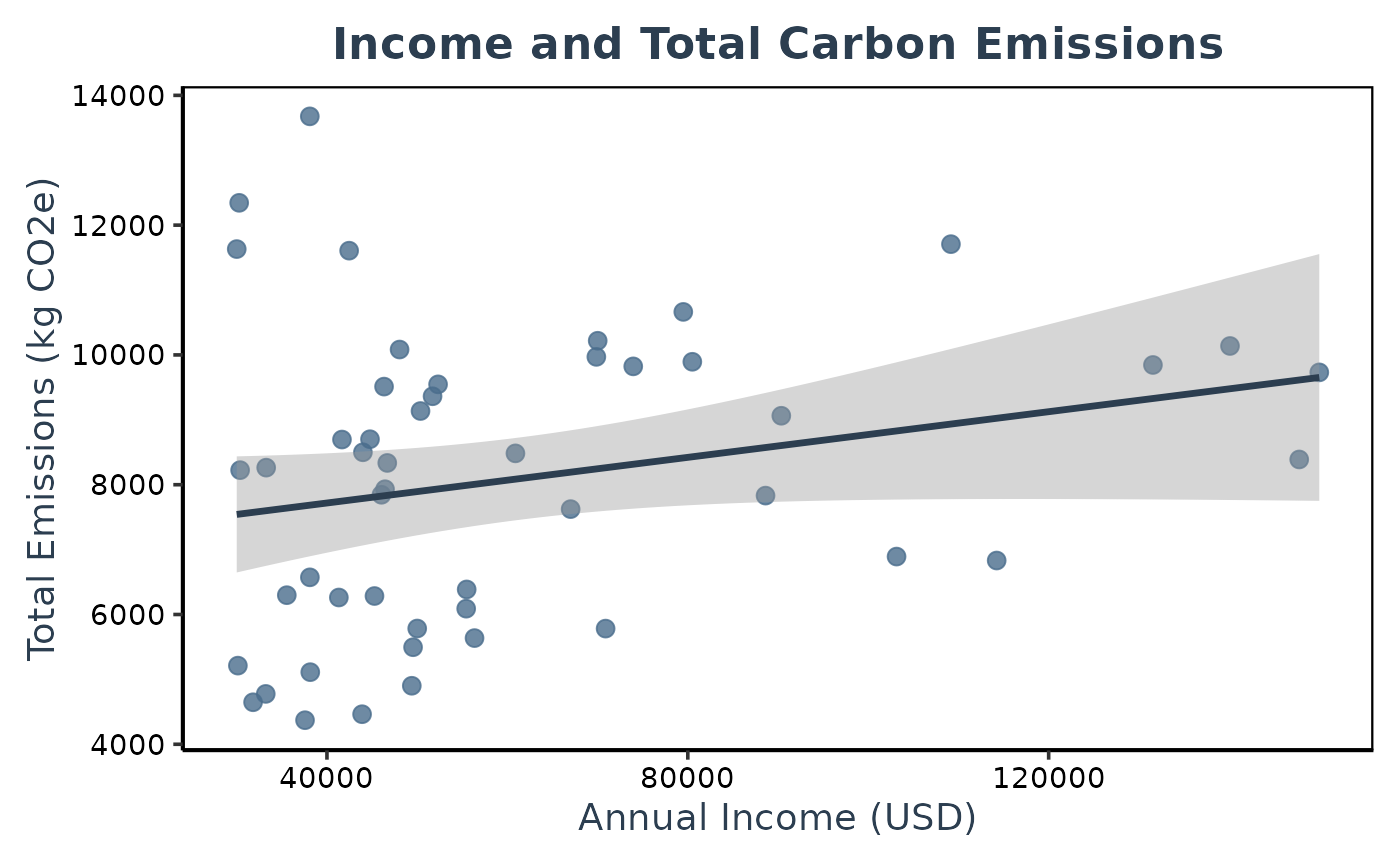
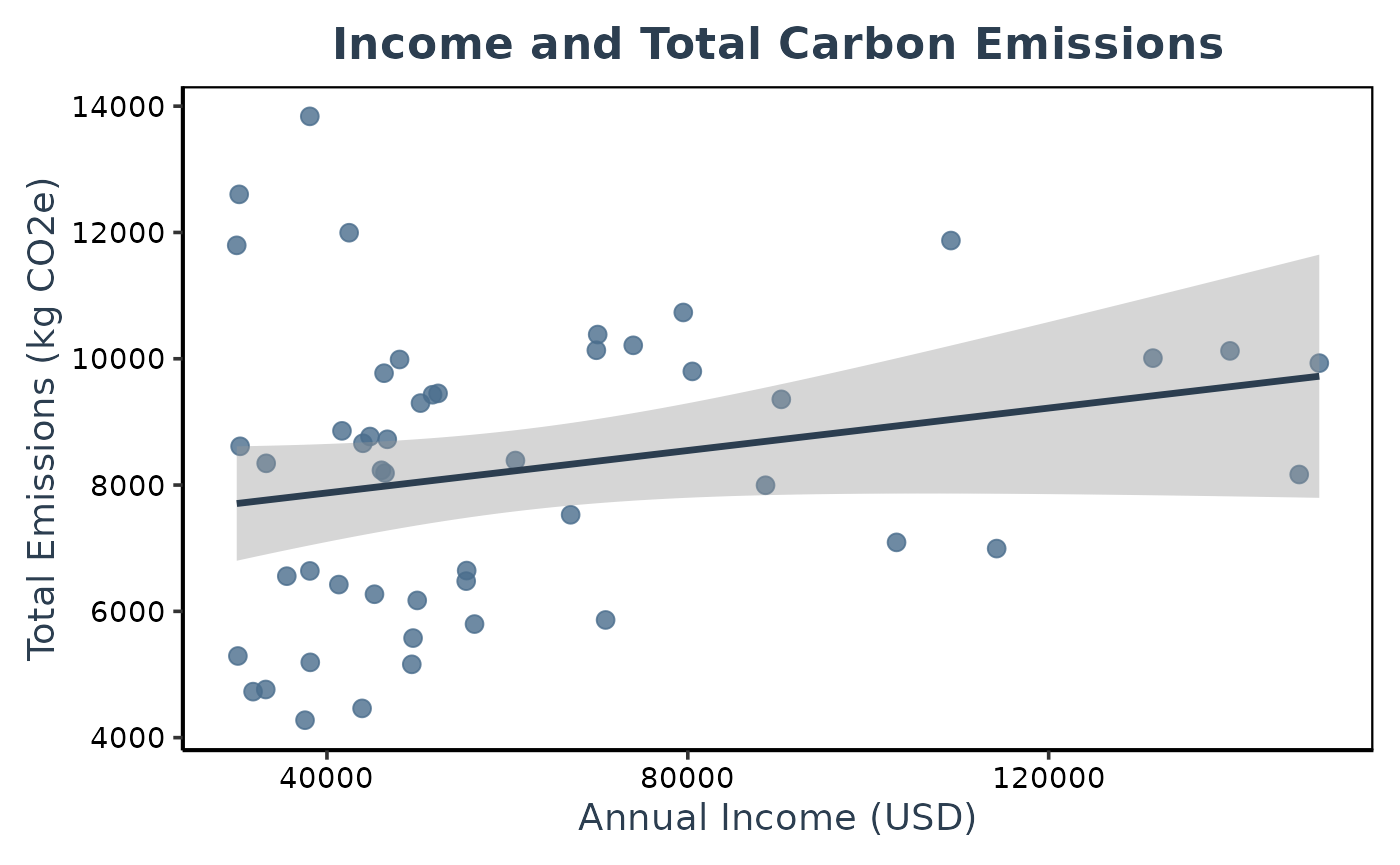
Deploying to gh-pages from @ jianing-d/SECFC@ddbce209f3dab1986a0b7044faa8694c3db6dc90 🚀

diff --git a/articles/Analysis_Example.html b/articles/Analysis_Example.html
@@ -93,7 +93,7 @@ carbon emissions.</li>
 <div class="sourceCode" id="cb1"><pre class="downlit sourceCode r">
 <code class="sourceCode R"><span><span class="co"># Install the SECFC package from GitHub</span></span>
 <span><span class="fu">remotes</span><span class="fu">::</span><span class="fu"><a href="https://remotes.r-lib.org/reference/install_github.html" class="external-link">install_github</a></span><span class="op">(</span><span class="st">"jianing-d/SECFC"</span><span class="op">)</span></span>
-<span><span class="co">#&gt; * checking for file ‘/tmp/RtmpqSN3Af/remotes1ec75b3b5edb/jianing-d-SECFC-528570e/DESCRIPTION’ ... OK</span></span>
+<span><span class="co">#&gt; * checking for file ‘/tmp/RtmpmNbbJm/remotes1ecc44ad4aa3/jianing-d-SECFC-ddbce20/DESCRIPTION’ ... OK</span></span>
 <span><span class="co">#&gt; * preparing ‘SECFC’:</span></span>
 <span><span class="co">#&gt; * checking DESCRIPTION meta-information ... OK</span></span>
 <span><span class="co">#&gt; * checking for LF line-endings in source and make files and shell scripts</span></span>
@@ -225,18 +225,18 @@ carbon emissions. This is a basic linear model using the built-in
 <span><span class="co">#&gt; </span></span>
 <span><span class="co">#&gt; Residuals:</span></span>
 <span><span class="co">#&gt;     Min      1Q  Median      3Q     Max </span></span>
-<span><span class="co">#&gt; -3323.2 -1926.9   248.3  1457.7  5991.8 </span></span>
+<span><span class="co">#&gt; -3558.0 -1805.8   232.4  1330.9  5995.2 </span></span>
 <span><span class="co">#&gt; </span></span>
 <span><span class="co">#&gt; Coefficients:</span></span>
 <span><span class="co">#&gt;              Estimate Std. Error t value Pr(&gt;|t|)    </span></span>
-<span><span class="co">#&gt; (Intercept) 7.014e+03  6.912e+02  10.148 1.56e-13 ***</span></span>
-<span><span class="co">#&gt; income      1.759e-02  1.004e-02   1.751   0.0863 .  </span></span>
+<span><span class="co">#&gt; (Intercept) 7.203e+03  7.000e+02  10.290 9.84e-14 ***</span></span>
+<span><span class="co">#&gt; income      1.680e-02  1.017e-02   1.652    0.105    </span></span>
 <span><span class="co">#&gt; ---</span></span>
 <span><span class="co">#&gt; Signif. codes:  0 '***' 0.001 '**' 0.01 '*' 0.05 '.' 0.1 ' ' 1</span></span>
 <span><span class="co">#&gt; </span></span>
-<span><span class="co">#&gt; Residual standard error: 2231 on 48 degrees of freedom</span></span>
-<span><span class="co">#&gt; Multiple R-squared:  0.06005,    Adjusted R-squared:  0.04047 </span></span>
-<span><span class="co">#&gt; F-statistic: 3.067 on 1 and 48 DF,  p-value: 0.08629</span></span></code></pre></div>
+<span><span class="co">#&gt; Residual standard error: 2259 on 48 degrees of freedom</span></span>
+<span><span class="co">#&gt; Multiple R-squared:  0.05377,    Adjusted R-squared:  0.03406 </span></span>
+<span><span class="co">#&gt; F-statistic: 2.728 on 1 and 48 DF,  p-value: 0.1051</span></span></code></pre></div>
 </div>
 <div class="section level2">
 <h2 id="step-6-create-a-plot">Step 6: Create a Plot<a class="anchor" aria-label="anchor" href="#step-6-create-a-plot"></a>
@@ -287,7 +287,7 @@ TotalEmissions using <code>ggplot2</code>. The plot below includes:</p>
 </div>
 
 <div class="pkgdown-footer-right">
-  <p>Site built with <a href="https://pkgdown.r-lib.org/" class="external-link">pkgdown</a> 2.1.2.</p>
+  <p>Site built with <a href="https://pkgdown.r-lib.org/" class="external-link">pkgdown</a> 2.1.3.</p>
 </div>
 
     </footer>

diff --git a/authors.html b/authors.html
@@ -89,7 +89,7 @@ R package version 0.0.5, <a href="https://jianing-d.github.io/SECFC/" class="ext
 </div>
 
 <div class="pkgdown-footer-right">
-  <p>Site built with <a href="https://pkgdown.r-lib.org/" class="external-link">pkgdown</a> 2.1.2.</p>
+  <p>Site built with <a href="https://pkgdown.r-lib.org/" class="external-link">pkgdown</a> 2.1.3.</p>
 </div>
 
     </footer></div>

diff --git a/reference/get_cons_emission_factors.html b/reference/get_cons_emission_factors.html
@@ -73,7 +73,7 @@ Fetches consumption emission factors from the dataset stored in the package."><m
 </div>
 
 <div class="pkgdown-footer-right">
-  <p>Site built with <a href="https://pkgdown.r-lib.org/" class="external-link">pkgdown</a> 2.1.2.</p>
+  <p>Site built with <a href="https://pkgdown.r-lib.org/" class="external-link">pkgdown</a> 2.1.3.</p>
 </div>
 
     </footer></div>

diff --git a/reference/get_food_emission_factors.html b/reference/get_food_emission_factors.html
@@ -73,7 +73,7 @@ Fetches food emission factors from the dataset stored in the package."><meta pro
 </div>
 
 <div class="pkgdown-footer-right">
-  <p>Site built with <a href="https://pkgdown.r-lib.org/" class="external-link">pkgdown</a> 2.1.2.</p>
+  <p>Site built with <a href="https://pkgdown.r-lib.org/" class="external-link">pkgdown</a> 2.1.3.</p>
 </div>
 
     </footer></div>

diff --git a/reference/get_housing_emission_factors.html b/reference/get_housing_emission_factors.html
@@ -73,7 +73,7 @@ Returns a list of housing emission factors based on the country."><meta property
 </div>
 
 <div class="pkgdown-footer-right">
-  <p>Site built with <a href="https://pkgdown.r-lib.org/" class="external-link">pkgdown</a> 2.1.2.</p>
+  <p>Site built with <a href="https://pkgdown.r-lib.org/" class="external-link">pkgdown</a> 2.1.3.</p>
 </div>
 
     </footer></div>

diff --git a/reference/get_pet_emission_factors.html b/reference/get_pet_emission_factors.html
@@ -73,7 +73,7 @@ Returns a list of pet emission factors based on the country."><meta property="og
 </div>
 
 <div class="pkgdown-footer-right">
-  <p>Site built with <a href="https://pkgdown.r-lib.org/" class="external-link">pkgdown</a> 2.1.2.</p>
+  <p>Site built with <a href="https://pkgdown.r-lib.org/" class="external-link">pkgdown</a> 2.1.3.</p>
 </div>
 
     </footer></div>

diff --git a/reference/get_total_emission_factors.html b/reference/get_total_emission_factors.html
@@ -73,7 +73,7 @@ Returns a list of total emission factors based on the country."><meta property="
 </div>
 
 <div class="pkgdown-footer-right">
-  <p>Site built with <a href="https://pkgdown.r-lib.org/" class="external-link">pkgdown</a> 2.1.2.</p>
+  <p>Site built with <a href="https://pkgdown.r-lib.org/" class="external-link">pkgdown</a> 2.1.3.</p>
 </div>
 
     </footer></div>

diff --git a/reference/get_transport_emission_factors.html b/reference/get_transport_emission_factors.html
@@ -73,7 +73,7 @@ Returns a list of transport emission factors based on the country."><meta proper
 </div>
 
 <div class="pkgdown-footer-right">
-  <p>Site built with <a href="https://pkgdown.r-lib.org/" class="external-link">pkgdown</a> 2.1.2.</p>
+  <p>Site built with <a href="https://pkgdown.r-lib.org/" class="external-link">pkgdown</a> 2.1.3.</p>
 </div>
 
     </footer></div>

diff --git a/reference/calc_transport_emissions_process.html b/reference/calc_transport_emissions_process.html
@@ -68,7 +68,7 @@ transport emissions and additional process-calculation columns.</p>
 </div>
 
 <div class="pkgdown-footer-right">
-  <p>Site built with <a href="https://pkgdown.r-lib.org/" class="external-link">pkgdown</a> 2.1.2.</p>
+  <p>Site built with <a href="https://pkgdown.r-lib.org/" class="external-link">pkgdown</a> 2.1.3.</p>
 </div>
 
     </footer></div>

diff --git a/articles/Get-Started.html b/articles/Get-Started.html
@@ -364,7 +364,7 @@ export responses from Qualtrics: ~StartDate, ~EndDate, ~Status,
 </div>
 
 <div class="pkgdown-footer-right">
-  <p>Site built with <a href="https://pkgdown.r-lib.org/" class="external-link">pkgdown</a> 2.1.2.</p>
+  <p>Site built with <a href="https://pkgdown.r-lib.org/" class="external-link">pkgdown</a> 2.1.3.</p>
 </div>
 
     </footer>

diff --git a/reference/questionnaire_example.html b/reference/questionnaire_example.html
@@ -177,7 +177,7 @@ demographics, and other lifestyle factors.</p>
 </div>
 
 <div class="pkgdown-footer-right">
-  <p>Site built with <a href="https://pkgdown.r-lib.org/" class="external-link">pkgdown</a> 2.1.2.</p>
+  <p>Site built with <a href="https://pkgdown.r-lib.org/" class="external-link">pkgdown</a> 2.1.3.</p>
 </div>
 
     </footer></div>

diff --git a/404.html b/404.html
@@ -72,7 +72,7 @@ Content not found. Please use links in the navbar.
 </div>
 
 <div class="pkgdown-footer-right">
-  <p>Site built with <a href="https://pkgdown.r-lib.org/" class="external-link">pkgdown</a> 2.1.2.</p>
+  <p>Site built with <a href="https://pkgdown.r-lib.org/" class="external-link">pkgdown</a> 2.1.3.</p>
 </div>
 
     </footer>
